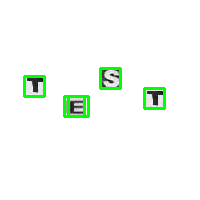
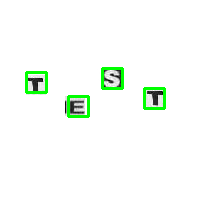
created a new CNN, classified img 1 perfect

diff --git a/cnn_even.py b/cnn_even.py
@@ -1,0 +1,73 @@
+from keras.models import Sequential
+from keras.layers import Dense, Conv2D, Dropout, Flatten, MaxPooling2D
+import tensorflow as tf
+from sklearn.model_selection import train_test_split
+import argparse
+import numpy as np
+from PIL import Image
+import cv2
+import helpers
+from sliding_window import svm_localize_and_classify
+
+# Find paths and labels
+dir_dataset = helpers.getPath()
+filenames = helpers.getFilenames(dir_dataset)
+labels = helpers.getLabels(dir_dataset)
+
+# Flatten the data set
+print("> ------ CNN classifier ------")
+print("> Collecting Image data ...")
+X, y = helpers.flattenImages(filenames, labels)
+num_classes = 26
+num_epochs = 25
+
+print("> Splitting train and test data ...")
+X_train, X_test, y_train, y_test = train_test_split(X, y, test_size=0.33)
+
+# Reshaping the array to 4-dims so that it can work with the Keras API
+X_train = X_train.reshape(X_train.shape[0], 20, 20, 1)
+X_test = X_test.reshape(X_test.shape[0], 20, 20, 1)
+input_shape = (20, 20, 1)
+# Making sure that the values are float so that we can get decimal points after division
+X_train = X_train.astype('float32')
+X_test = X_test.astype('float32')
+# Normalizing the RGB codes by dividing it to the max RGB value.
+X_train /= 255.0
+X_test /= 255.0
+
+# Creating a Sequential Model and adding the layers
+model = Sequential()
+model.add(Conv2D(28, kernel_size=(3,3), input_shape=input_shape))
+model.add(MaxPooling2D(pool_size=(2, 2)))
+model.add(Flatten()) # Flattening the 2D arrays for fully connected layers
+model.add(Dense(128, activation=tf.nn.relu))
+model.add(Dropout(0.2))
+model.add(Dense(num_classes,activation=tf.nn.softmax))
+
+model.compile(optimizer='adam', 
+              loss='sparse_categorical_crossentropy', 
+              metrics=['accuracy'])
+model.fit(x=X_train,y=y_train, epochs=num_epochs)
+
+# Get the accuracies
+y_pred = []
+for pred in model.predict(X_test): 
+    y_pred.append(np.argmax(pred))
+
+score = model.evaluate(X_test, y_test, verbose=0)
+print("-- Model has been trained.")
+print("> Test loss:", score[0])
+print("> Test accuracy:", score[1])
+accuracy = helpers.getAccuracy(y_pred, y_test)
+print(f"> The accuracy of the model is {accuracy}")
+
+# ------------------ Detect test image -----------------------
+
+# construct the argument parser and parse the arguments
+ap = argparse.ArgumentParser()
+ap.add_argument("-i", "--image", required=True, help="Path to the image")
+args = vars(ap.parse_args())
+image = np.asarray(Image.open(args["image"]))
+
+ret_img = svm_localize_and_classify(image, model, 'cnn', probLim=0.9999, stepSize=2, winW=20, winH=20)
+cv2.imwrite('images/svm_pred.png', ret_img)

diff --git a/sliding_window.py b/sliding_window.py
@@ -37,6 +37,9 @@ def svm_localize_and_classify(image, clf, clf_type='svm', probLim=0.8, stepSize=
     returns:
         image with windows with supposedly letters in them 
     '''
+
+    print(f"> Initiating sliding window with for {clf_type} with:\n confidence threshold: {probLim*100}%\n step size: {stepSize}\n window dimension: {winW}x{winH}")
+
     predictions = []
     display_image = cv2.cvtColor(image.copy(), cv2.COLOR_GRAY2RGB)
     color = (0, 0, 255) # use red as window default, only turn green when detect letter
@@ -52,12 +55,14 @@ def svm_localize_and_classify(image, clf, clf_type='svm', probLim=0.8, stepSize=
             window_processed = [window_hog.flatten()/255.0]
             probabilities = clf.predict_proba(window_processed)
         else:
-            window_resized = window.reshape(1, 20, 20, 1).astype('float32')
-            probabilities = clf.predict_proba(window)
+            # Get the accuracies
+            window_cnnshape = window.reshape(1, 20, 20, 1)/255.0
+            probabilities = clf.predict(window_cnnshape) 
     
         for i, prob in enumerate(probabilities[0]):
             if prob > probLim:
-                predictions.append((window_processed, helpers.numToChar(i), prob))
+                print(prob)
+                predictions.append((window, helpers.numToChar(i), prob))
                 color = (0, 255, 0)
                 cv2.rectangle(display_image, (x, y), (x + winW, y + winH), (0, 255, 0), 2)
             else:

diff --git a/svm.py b/svm.py
@@ -13,7 +13,7 @@ filenames = helpers.getFilenames(dir_dataset)
 labels = helpers.getLabels(dir_dataset)
 
 # Flatten the data set
-print("> ------ Creating SVM classifier ------")
+print("> ------ SVM classifier ------")
 print("> Collecting Image data ...")
 X, y = helpers.flattenImages(filenames, labels)
 
